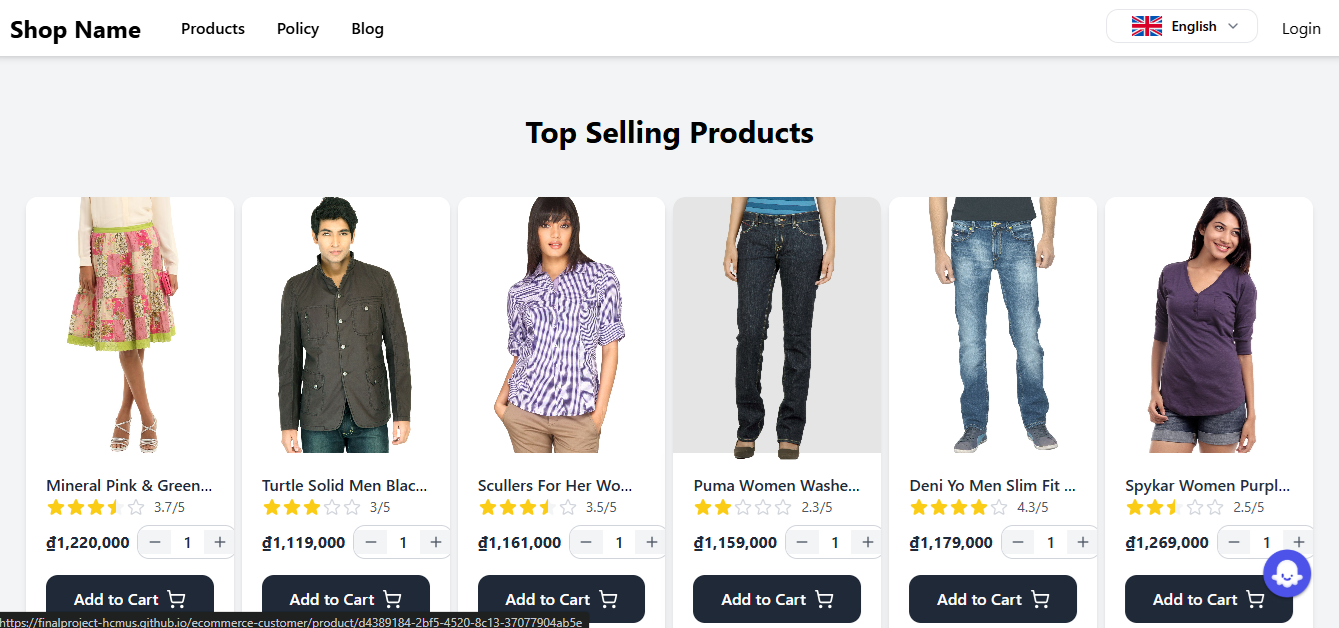
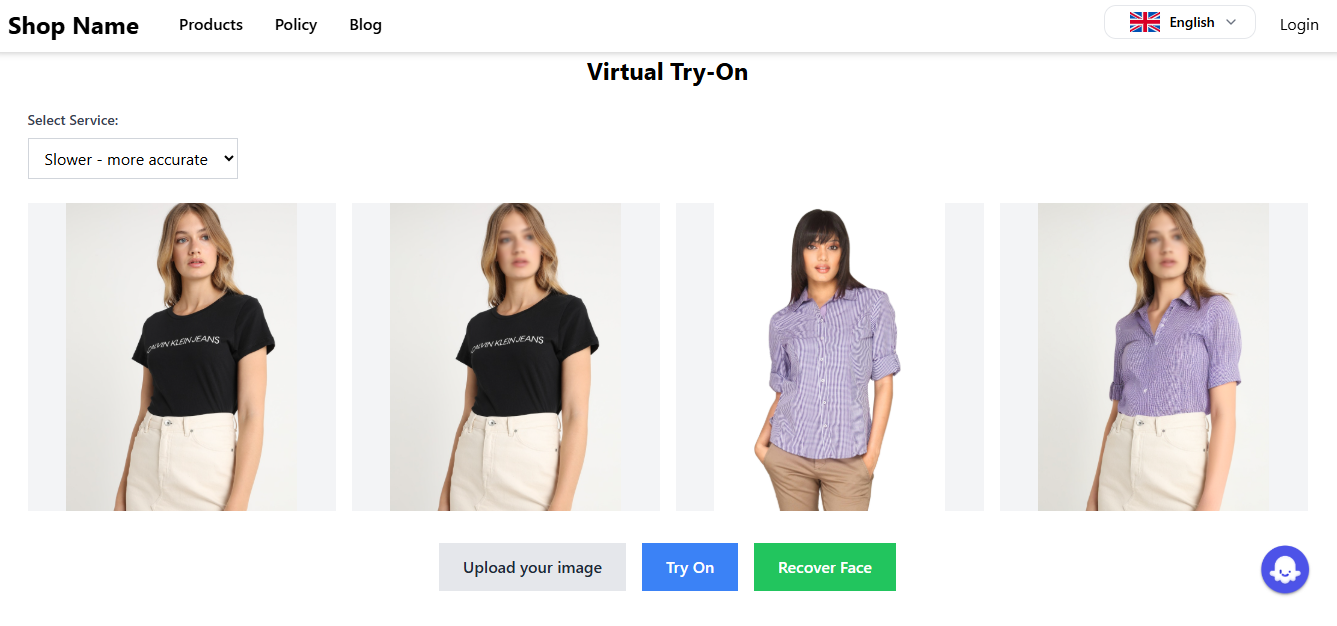
fix: image template

diff --git a/app/components/chat/ChatAlert.tsx b/app/components/chat/ChatAlert.tsx
@@ -88,7 +88,7 @@ export default function ChatAlert({ alert, clearAlert, postMessage }: Props) {
                   )}
                 >
                   <div className="i-ph:chat-circle-duotone"></div>
-                  Ask Bolt
+                  Ask AI
                 </button>
                 <button
                   onClick={clearAlert}

diff --git a/app/components/deploy/DeployAlert.tsx b/app/components/deploy/DeployAlert.tsx
@@ -172,7 +172,7 @@ export default function DeployChatAlert({ alert, clearAlert, postMessage }: Depl
                     )}
                   >
                     <div className="i-ph:chat-circle-duotone"></div>
-                    Ask Bolt
+                    Ask AI
                   </button>
                 )}
                 <button
